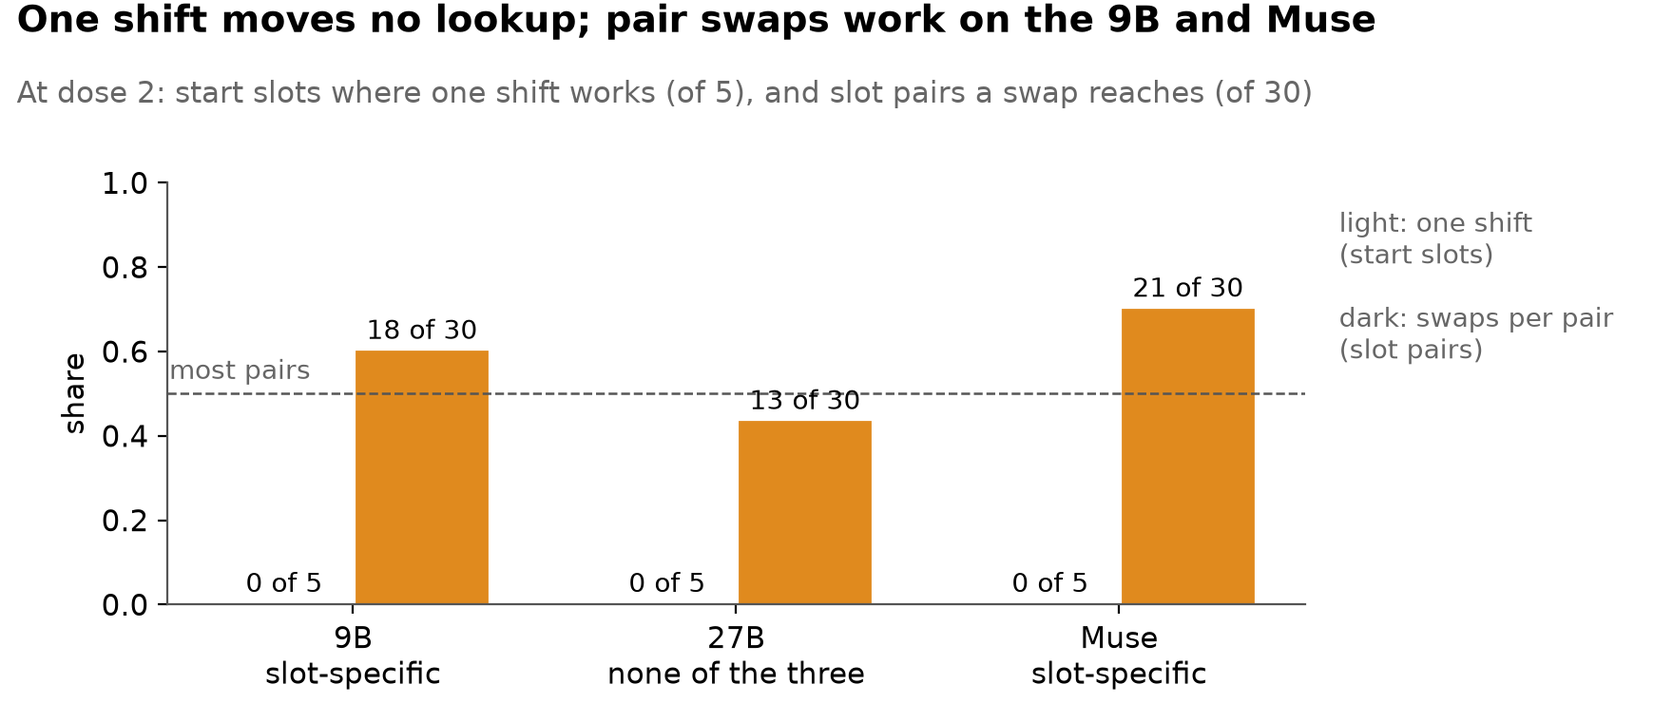
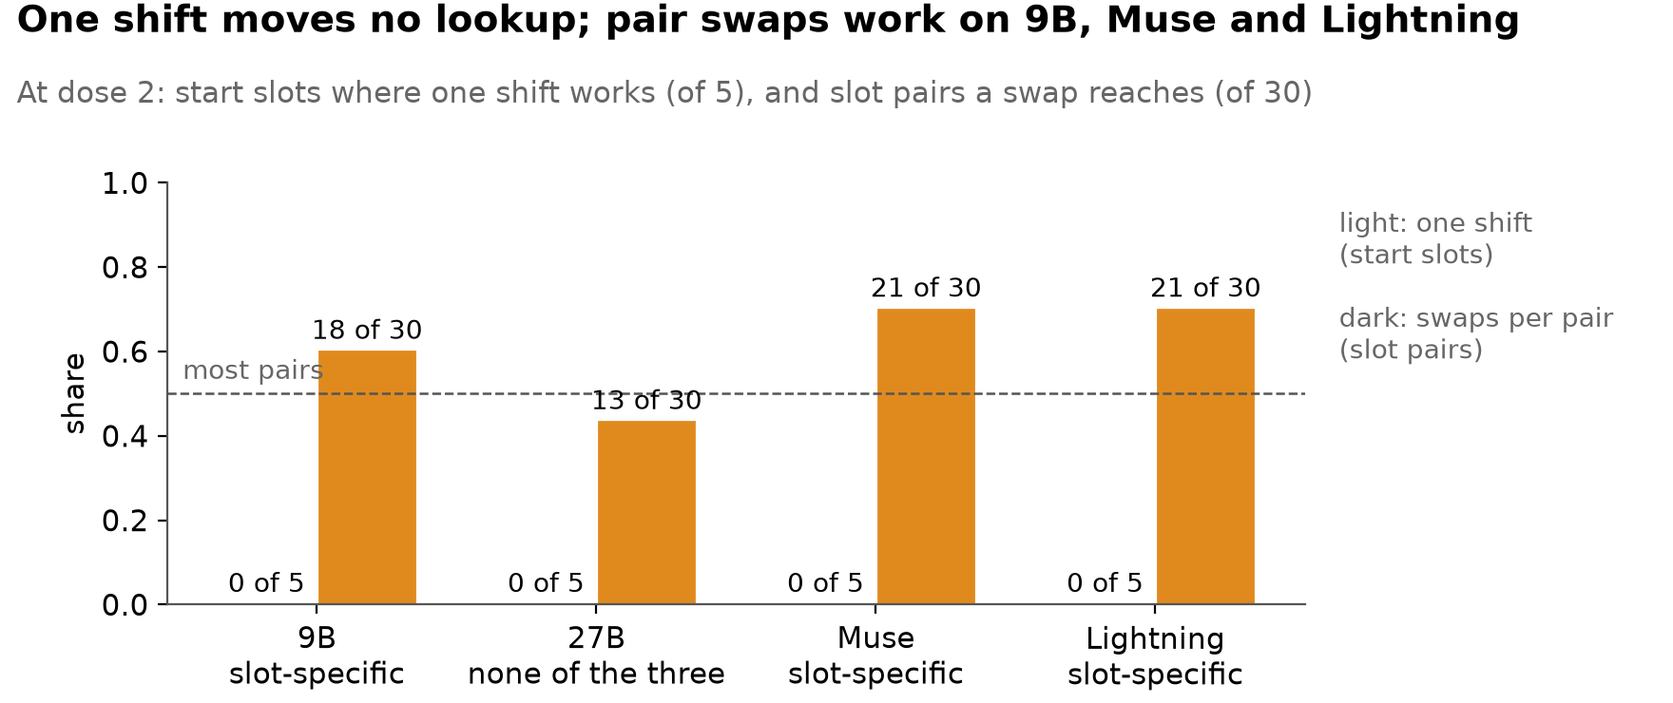
Ledger: Lightning's token map (main design) and six lockers into their cards; flag 18 reworded
- docs/depth/EXPERIMENTS.md:
  - D1 / D2 card, Lightning column (main design, x52_depthmap-20261029T011452Z; coverage run, no prediction):
    D1 (a), (b), (c) no; l_R lookup / recall L28 / L28 (locker first, n 59), L12 / L36 (locker after, n 79);
    D2 not designed (no band, as Muse); the clean design not tested (its gate fails). Caveat and Flagged 19:
    the in-job verdict crashed on a missing LEAD entry; LEAD = 4 added after the run (092f5579); (b)'s answer
    does not depend on it (lead 0)
  - six-locker card, Lightning column (x52_six-20261029T011006Z; coverage run, no prediction): position share
    under the whole change 0.40 [0.33, 0.46]; first component monotone (1.00); 21 of 30 given-slot swaps reach
    0.25 at dose 2: slot-specific
  - Flagged 18 reworded: no tension (51.10 ranks the bridge entity, 52 B the answer word); a reminder that the
    README should name which word is read
  - README changes waiting: E11 adds Lightning; E7 / claim 8 for Lightning; coverage landed-since line
- scripts/ledger_figures.py: six_lockers() draws Lightning (title: pair swaps work on 9B, Muse and Lightning);
  figures/ledger/ledger_six_lockers re-rendered and re-opened; data.csv gains Lightning's rows (none changed)
- 333 sourced numbers, check_ledger 0 problems

Changed region(s): [[0.0938, 0.373, 0.75, 0.9946], [0.5938, 0.0, 0.9062, 0.0622]]

diff --git a/scripts/ledger_figures.py b/scripts/ledger_figures.py
@@ -582,15 +582,17 @@ def routes(plt) -> str:
 
 SIX = {"qwen3.5-9b": R / "x47_six" / "x47_2-20261028T113102Z" / "x47_2.json",
        "qwen3.6-27b": R / "x47_six" / "x52_six-20261029T004919Z" / "x47_2.json",
-       "muse-glimmer-30b": R / "x47_six" / "x47_2-20261028T113102Z" / "x47_2.json"}  # fmt: skip
+       "muse-glimmer-30b": R / "x47_six" / "x47_2-20261028T113102Z" / "x47_2.json",
+       "nemotron-3.5-lightning": R / "x47_six" / "x52_six-20261029T011006Z" / "x47_2.json"}  # fmt: skip
 
 
 def six_lockers(plt) -> str:
-    """Per model (9B, 27B, Muse), at dose 2: the share of start slots from which one fixed shift sends at least 0.25 of
-    lookups one slot on, and the share of given-slot swaps that reach 0.25; the rule's 'most pairs' as a dashed 0.5."""
+    """Per model (9B, 27B, Muse, Lightning), at dose 2: the share of start slots from which one fixed shift sends at
+    least 0.25 of lookups one slot on, and the share of given-slot swaps that reach 0.25; the rule's 'most pairs' as a
+    dashed 0.5."""
     fig, ax = plt.subplots(figsize=(S.WIDTH, 3.7))
     fig.subplots_adjust(left=0.1, right=0.78, top=0.74, bottom=0.14)
-    S.title(fig, "One shift moves no lookup; pair swaps work on the 9B and Muse",
+    S.title(fig, "One shift moves no lookup; pair swaps work on 9B, Muse and Lightning",
             "At dose 2: start slots where one shift works (of 5), and slot pairs a swap reaches (of 30)")  # fmt: skip
     for i, (t, path) in enumerate(SIX.items()):
         m = next(x for x in load(path)["models"] if x["target"] == t)
@@ -608,7 +610,7 @@ def six_lockers(plt) -> str:
     ax.axhline(0.5, color="#555555", lw=0.9, ls="--")
     ax.text(-0.48, 0.52, "most pairs", fontsize=S.LABEL_PT, color=S.COL["muted"], va="bottom")
     labels = [next(x for x in load(p)["models"] if x["target"] == t)["label"] for t, p in SIX.items()]
-    ax.set_xticks(range(3), [f"{SHORT[t]}\n{lab}" for t, lab in zip(SIX, labels, strict=True)])
+    ax.set_xticks(range(len(SIX)), [f"{SHORT[t]}\n{lab}" for t, lab in zip(SIX, labels, strict=True)])
     ax.set_ylim(0, 1.0)
     ax.set_ylabel("share")
     ax.text(1.03, 0.75, "light: one shift\n(start slots)\n\ndark: swaps per pair\n(slot pairs)", transform=ax.transAxes,

diff --git a/docs/depth/EXPERIMENTS.md b/docs/depth/EXPERIMENTS.md
@@ -23,7 +23,8 @@ Each card's figure follows its rule; the checks made on every figure are listed 
 15. The coverage matrix's row 4 (address swap by dose) gives the 9B 0.05 / 0.52 / 0.52 and Muse 0.02 / 0.46 / 0.73; the verdicts say the reverse (9B 0.02 / 0.46 / 0.73, Muse 0.05 / 0.52 / 0.52). The coverage table mirrors the matrix and carries the swap; the address-swap card follows the verdicts.
 16. README E6 says the swap hypothesis was fixed in advance; the rule fixed in advance (Q44.1-3, s = 1) says no on the 9B, 27B and Muse, and E6's 0.46 / 0.25 / 0.52 are at s = 2 (mean over slot pairs). The s = 1 failure is known (joint_story_draft: a design error), but E6 does not say it ([address swap](#swap)).
 17. Fixed (0866f22b, on danorel): scripts/x0_details.py (tier0_numbers) read the newest split-by-order folder; Lightning's one-model split is now the newest, so a rerun of it would break the same way the figure reader did (fixed in readme_story_figures by order_split_path(); x0_details not touched).
-18. The recall at the last token is "readable" in 51.10 (Lightning from L36, and on all three models) but "not readable" in 52 B (Lightning: best last-token share 0.41 at L46, under 0.5). Coordinator's guess: the answer's token form (digit vs number word). The verdicts' own "As computed" lines suggest a different cause: 51.10's lens top-5 ranks the bridge entity among the letter tokens, 52 B's ranks the answer word (the number word's one-letter-token variants); both can hold at once. Verify by hand before either word goes into the README ([51.10](#t51-10), [52 B](#b52-b)).
+18. Reminder, no tension: the recall at the last token is "readable" in 51.10 and "not readable" in 52 B because they read different words: 51.10 ranks the bridge entity among the letter tokens, 52 B the answer word (the number word's one-letter-token variants). Wherever the README says "readable", it should name which word is read ([51.10](#t51-10), [52 B](#b52-b)).
+19. Token map on Lightning: the run's in-job verdict crashed (KeyError) because x47_depthmap.LEAD, the margin of D1 rule (b), had no Lightning entry. The coordinator added LEAD = 4 (as Muse, one sampling step) after the run and ran the verdict on CPU (092f5579). The margin was set after the data, but (b)'s answer does not depend on it: Lightning's lead is 0 ([token map](#d1)).
 
 ## README changes waiting for Dan
 
@@ -38,14 +39,15 @@ Overnight rule (Dan 01:10): no README edits until Dan returns. One line each:
 - Claim 1, models: the conflict test is confirmed on Lightning at L14 (coverage run, no prediction; gate chosen after the 60-scene pre-check was seen) ([Lightning's conflict test](#lightning-conflict)).
 - E6: say the rule fixed in advance was at s = 1 and said no (below a real change's size); the swap numbers are at s = 2; Lightning moves 0.50 at s = 2 (coverage run, no prediction) ([address swap](#swap)).
 - E10 and claim 10, models: Lightning splits the same way (locker first 0.86 of lookups switch, after 0.15; descriptive, coverage run) ([order split](#order)).
-- E11: "Not shown: the 27B" is out of date: the 27B's map fails D1 (a), (b), (c) on both designs and passes D2 (the recall's read-out layer L52 at the start of Zach's late band), as the 9B ([token map](#d1)).
+- E11: "Not shown: the 27B" is out of date: the 27B's map fails D1 (a), (b), (c) on both designs and passes D2 (the recall's read-out layer L52 at the start of Zach's late band), as the 9B; Lightning's main-design map fails D1 too ([token map](#d1)).
+- E7 and claim 8, models: Lightning is slot-specific at dose 2, as the 9B and Muse (coverage run, no prediction) ([six lockers](#six)).
 - E8, E12 and the 51.10 card, models: Lightning reads the same (lens readout not verbalizable; anatomy (a), (b), (d) yes, (c) no; recall at the last token readable, not used); coverage runs, no prediction ([47.0](#t47-0), [47.8](#t47-8), [51.10](#t51-10)).
 
 ## Coverage
 
 Which test ran on which model, from the committed coverage matrix (results/x52_coverage/matrix-20261029T000836Z/matrix.json, built 00:08 UTC 29 Oct; each cell's source is in that file). A linked test has a card below. Status words are the matrix's: done / partial / running / queued / missing / not tested (reason) / not designed. Lightning's gate (all cells): the main test's gate on all 516 scenes, ○ chosen after the 60-scene pre-check was seen; layer L14 (see [Lightning's layer](#lightning-layer)). Nemotron 3.5 Bolt: out of scope, only a J-lens exists, no J++ lens.
 
-As of the matrix at 00:08 UTC. Landed since (see the cards): on Lightning the conflict test, answer control, routes test, address swap, order split, anatomy by layer, lens readout, last-token read, 52 A and 52 B (main set); on the 27B six lockers and the token map. Not in a card: Lightning on natural passages is **not tested**: the gate failed (the lookup right on 0.77<!-- src: results/x5_natural/nem35l_x52_natural/gate.json \| "PP" :: 0.77 --> of the 87<!-- src: results/x5_natural/nem35l_x52_natural/gate.json \| "cases" :: 87 --> cases, under 0.80; 36<!-- src: results/x5_natural/nem35l_x52_natural/gate.json \| "eligible" :: 36 --> eligible), and by the spec's rule there is no lowered rerun.
+As of the matrix at 00:08 UTC. Landed since (see the cards): on Lightning the conflict test, answer control, routes test, address swap, order split, anatomy by layer, lens readout, last-token read, 52 A and 52 B (main set); on the 27B six lockers and the token map; on Lightning also six lockers and the token map (main design). Not in a card: Lightning on natural passages is **not tested**: the gate failed (the lookup right on 0.77<!-- src: results/x5_natural/nem35l_x52_natural/gate.json \| "PP" :: 0.77 --> of the 87<!-- src: results/x5_natural/nem35l_x52_natural/gate.json \| "cases" :: 87 --> cases, under 0.80; 36<!-- src: results/x5_natural/nem35l_x52_natural/gate.json \| "eligible" :: 36 --> eligible), and by the spec's rule there is no lowered rerun.
 
 <!-- coverage:start (scripts/ledger_coverage.py; do not edit by hand) -->
 | test | 27B | Lightning | 9B | Muse |
@@ -449,30 +451,30 @@ As of the matrix at 00:08 UTC. Landed since (see the cards): on Lightning the co
   - The swap also changes the recall's answer, most on the 9B and Lightning (the collateral).
   - Pooled over pairs: some pairs move no lookup at all (Lightning: two of six at dose 2).
 
-### With six lockers, does each locker have its own code? (six lockers; the 27B's coverage run opened 29 Oct 01:49) <a id="six"></a>
+### With six lockers, does each locker have its own code? (six lockers; the 27B's coverage run opened 29 Oct 01:49, Lightning's 29 Oct) <a id="six"></a>
 
-*Used in: README Part III card "Six lockers" and claims table row 8 (9B, Muse); the 27B not in the README yet. Story: the address.*
+*Used in: README Part III card "Six lockers" and claims table row 8 (9B, Muse); the 27B and Lightning not in the README yet. Story: the address.*
 
 - **Question.** With six locker sentences, is the address a line over slots (one shift steps the lookup one slot), a first-versus-rest marker, or one code per slot?
 - **Why we asked.** With three lockers a line and a first-versus-rest marker look the same.
-- **Data.** Six-locker scenes: the test half, 300 per model (9B, 27B, Muse), the other 300 fit the slot means.
+- **Data.** Six-locker scenes: the test half, 300 per model (9B, 27B, Muse, Lightning at L14), the other 300 fit the slot means.
 - **Method.** At the bridge word at L: one fixed shift (the mean step between neighbouring slot means) from each start slot, and swaps between given slots, each at doses 1 and 2, against a random vector of the same size; the slot means' first principal component beside.
-- **Rule, fixed in advance.** "Ordinal: the first PCA component is monotone in slot (|Spearman| >= 0.9) and v sends >= 0.25 of lookups to slot k+1 from >= 4 of 5 start slots, the random vector <= 0.05; Categorical, first vs rest: v works only from slot 1 (others < 0.10) and U's removal on 2-6 moves is within 0.10 of random; Slot-specific: pairwise writes reach >= 0.25 on most pairs but no single v does." Dose 2 decides.
+- **Rule, fixed in advance.** "Ordinal: the first PCA component is monotone in slot (|Spearman| >= 0.9) and v sends >= 0.25 of lookups to slot k+1 from >= 4 of 5 start slots, the random vector <= 0.05; Categorical, first vs rest: v works only from slot 1 (others < 0.10) and U's removal on 2-6 moves is within 0.10 of random; Slot-specific: pairwise writes reach >= 0.25 on most pairs but no single v does." Dose 2 decides. The 27B and Lightning: coverage runs on this rule, no prediction.
 
-![One shift moves no lookup; pair swaps work on the 9B and Muse](../../figures/ledger/ledger_six_lockers.png)
-*At dose 2, per model: start slots from which one shift sends at least 0.25 of lookups one slot on (light, of 5; none anywhere), and slot pairs a given-slot swap reaches (dark, of 30); dashed: "most pairs"; the rule's label under each model. 300 test scenes per model.*
+![One shift moves no lookup; pair swaps work on 9B, Muse and Lightning](../../figures/ledger/ledger_six_lockers.png)
+*At dose 2, per model: start slots from which one shift sends at least 0.25 of lookups one slot on (light, of 5; none anywhere), and slot pairs a given-slot swap reaches (dark, of 30); dashed: "most pairs"; the rule's label under each model. 300 test scenes per model; 9B, 27B, Muse, Lightning.*
 
 - **Result.**
 
   | | 9B | 27B | Muse | Lightning |
   |---|---|---|---|---|
-  | position share under the whole change | 0.32 [0.28, 0.37]<!-- src: results/x47_six/x47_2-20261028T113102Z/x47_2.md \| qwen35_9b_x47_2 :: 0.32 [0.28, 0.37] --> | 0.25 [0.19, 0.31]<!-- src: results/x47_six/x52_six-20261029T004919Z/x47_2.md \| 0.70 [0.64, 0.76] :: 0.25 [0.19, 0.31] --> | 0.37 [0.31, 0.43]<!-- src: results/x47_six/x47_2-20261028T113102Z/x47_2.md \| muse30_x47_2 :: 0.37 [0.31, 0.43] --> | not run |
-  | first component monotone in slot (Spearman) | 1.00<!-- src: results/x47_six/x47_2-20261028T113102Z/x47_2.md \| 8.15, 5.59, 3.08 :: 1.00 --> | 1.00<!-- src: results/x47_six/x52_six-20261029T004919Z/x47_2.md \| 26.79, 16.42, 11.83 :: 1.00 --> | 1.00<!-- src: results/x47_six/x47_2-20261028T113102Z/x47_2.md \| 84.27, 58.15, 38.31 :: 1.00 --> | |
-  | given-slot swaps reaching 0.25 at dose 2 | 18 of 30<!-- src: results/x47_six/x47_2-20261028T113102Z/x47_2.md \| -0.025 :: 18 of 30 --> | 13 of 30<!-- src: results/x47_six/x52_six-20261029T004919Z/x47_2.md \| 0.004 :: 13 of 30 --> | 21 of 30<!-- src: results/x47_six/x47_2-20261028T113102Z/x47_2.md \| -0.055 :: 21 of 30 --> | |
-  | the rule at dose 2 | **slot-specific** | **none of the three** | **slot-specific** | |
+  | position share under the whole change | 0.32 [0.28, 0.37]<!-- src: results/x47_six/x47_2-20261028T113102Z/x47_2.md \| qwen35_9b_x47_2 :: 0.32 [0.28, 0.37] --> | 0.25 [0.19, 0.31]<!-- src: results/x47_six/x52_six-20261029T004919Z/x47_2.md \| 0.70 [0.64, 0.76] :: 0.25 [0.19, 0.31] --> | 0.37 [0.31, 0.43]<!-- src: results/x47_six/x47_2-20261028T113102Z/x47_2.md \| muse30_x47_2 :: 0.37 [0.31, 0.43] --> | 0.40 [0.33, 0.46]<!-- src: results/x47_six/x52_six-20261029T011006Z/x47_2.md \| nem35l_x52_six :: whole :: 0.40 [0.33, 0.46] --> |
+  | first component monotone in slot (Spearman) | 1.00<!-- src: results/x47_six/x47_2-20261028T113102Z/x47_2.md \| 8.15, 5.59, 3.08 :: 1.00 --> | 1.00<!-- src: results/x47_six/x52_six-20261029T004919Z/x47_2.md \| 26.79, 16.42, 11.83 :: 1.00 --> | 1.00<!-- src: results/x47_six/x47_2-20261028T113102Z/x47_2.md \| 84.27, 58.15, 38.31 :: 1.00 --> | 1.00<!-- src: results/x47_six/x52_six-20261029T011006Z/x47_2.md \| 6.40, 4.93, 2.50 :: 1.00 --> |
+  | given-slot swaps reaching 0.25 at dose 2 | 18 of 30<!-- src: results/x47_six/x47_2-20261028T113102Z/x47_2.md \| -0.025 :: 18 of 30 --> | 13 of 30<!-- src: results/x47_six/x52_six-20261029T004919Z/x47_2.md \| 0.004 :: 13 of 30 --> | 21 of 30<!-- src: results/x47_six/x47_2-20261028T113102Z/x47_2.md \| -0.055 :: 21 of 30 --> | 21 of 30<!-- src: results/x47_six/x52_six-20261029T011006Z/x47_2.md \| -0.020 :: 21 of 30 --> |
+  | the rule at dose 2 | **slot-specific** | **none of the three** | **slot-specific** | **slot-specific** (no prediction) |
 
 - **Read.**
-  - No single shift moves the lookup on any model; given-slot swaps work on most pairs on the 9B and Muse, so each slot is its own target there; on the 27B neither the line nor the per-slot pattern holds.
+  - No single shift moves the lookup on any model; given-slot swaps work on most pairs on the 9B, Muse and Lightning, so each slot is its own target there; on the 27B neither the line nor the per-slot pattern holds.
 - **Caveats.**
   - The 27B's shift writes move 0.00 at every start slot, though its slot means lie in order.
   - A different test of the code's size (see [51.11](#t51-11)) does not find one dimension per slot on the 9B.
@@ -539,36 +541,36 @@ As of the matrix at 00:08 UTC. Landed since (see the cards): on Lightning the co
   - Locker after, the whole change switches 0.09 to 0.19 of 99 to 115 lookups, under the 30 switches a cell needs; the lookup's loss there is not usable (the split's own note: measurable only where switches are many).
   - Descriptive: the split was chosen after the data.
 
-### Which token and layer carry each reader's switch, and when does the bridge word stop being read? (token-by-layer map and window patching, D1 / D2; the 27B's coverage run 29 Oct) <a id="d1"></a>
+### Which token and layer carry each reader's switch, and when does the bridge word stop being read? (token-by-layer map and window patching, D1 / D2; the 27B's and Lightning's coverage runs 29 Oct) <a id="d1"></a>
 
-*Used in: README Part IV card "Token by token, layer by layer" (9B, Muse); the 27B not in the README yet. Story: where and when.*
+*Used in: README Part IV card "Token by token, layer by layer" (9B, Muse); the 27B and Lightning not in the README yet. Story: where and when.*
 
 - **Question.** With the changed prompt's state placed in one token group at one layer, which cell switches each reader, and after which layer does nothing downstream read the bridge word?
 - **Why we asked.** With the locker sentence after the pick the bridge word cannot point back; the map says where the link sits instead.
-- **Data.** Clean one-pick scenes (the main test beside them), split by sentence order: locker first 151 / 202 / 143, locker after 166 / 236 / 170 (9B / 27B / Muse). Lightning not tested: the clean one-pick design's gate fails on it.
+- **Data.** Clean one-pick scenes (the main test beside them), split by sentence order: locker first 151 / 202 / 143, locker after 166 / 236 / 170 (9B / 27B / Muse). Lightning: the main test only, locker first 59<!-- src: results/x47_depthmap/x52_depthmap-20261029T011452Z/depth.md \| nemotron-3.5-lightning :: main :: locker-first :: 59 -->, locker after 79<!-- src: results/x47_depthmap/x52_depthmap-20261029T011452Z/depth.md \| nemotron-3.5-lightning :: main :: locker-after :: 79 -->; its clean design is not tested (the clean one-pick gate fails on it).
 - **Method.** D1: the changed state placed at one token group (the bridge word, the rest of the pick sentence, the asked person, each locker sentence's item and number, the question, the last token) at one layer, every 2nd (9B) or 4th (27B, Muse). D2: the changed state at the bridge word at every layer from l on; the read-out layer l_R is the first where this switches 0.1 or fewer.
-- **Rule, fixed in advance.** D1: "(a) In locker-after scenes the lookup's mass sits at the locker sentences, not at the bridge word, at every layer (bridge-word cells <= 0.25 everywhere; some locker-sentence cell >= 0.5). (b) In locker-first scenes the lookup's bridge-word mass ends before the recall's does (the last layer with bridge-word switch >= 0.3 is earlier for the lookup, by >= 2 layers on the 9B, >= 4 on Muse). (c) The recall's map has a second hot token, the item's earlier mention, in locker-first scenes (>= 0.3 at some layer), absent in locker-after." D2: ""The handover from the mention to the question" if l_R(recall) lies at or below the start of his late band on the 9B and 27B." The 27B: a coverage run on these rules, no prediction.
+- **Rule, fixed in advance.** D1: "(a) In locker-after scenes the lookup's mass sits at the locker sentences, not at the bridge word, at every layer (bridge-word cells <= 0.25 everywhere; some locker-sentence cell >= 0.5). (b) In locker-first scenes the lookup's bridge-word mass ends before the recall's does (the last layer with bridge-word switch >= 0.3 is earlier for the lookup, by >= 2 layers on the 9B, >= 4 on Muse). (c) The recall's map has a second hot token, the item's earlier mention, in locker-first scenes (>= 0.3 at some layer), absent in locker-after." D2: ""The handover from the mention to the question" if l_R(recall) lies at or below the start of his late band on the 9B and 27B." The 27B and Lightning: coverage runs on these rules, no prediction.
 
 ![Locker after the pick: the lookup leaves the bridge word early](../../figures/story/fig03d_depth_map.png)
 *The 9B, clean one-pick scenes: lookups (upper row, purple) and recalls (lower row, grey) switched when the changed state is placed in one token group at one layer, locker before and after the pick; bottom: the bridge word replaced at every layer up to l, and from l on. The 27B's and Muse's maps are tables in their verdicts.*
 
-- **Result.** (clean design; the main test gives the same D1 and D2 answers on all three)
+- **Result.** (clean design; the main test gives the same D1 and D2 answers on the 9B, 27B and Muse; Lightning: the main test)
 
-  | | 9B | 27B | Muse |
-  |---|---|---|---|
-  | D1 (a) locker after: a locker-sentence cell carries the lookup | no<!-- src: results/x47_depthmap/depth-20261028T120525Z/depth.md \| qwen3.5-9b :: clean :: glk_org_num@18 :: no --> | no<!-- src: results/x47_depthmap/x52_depthmap-20261029T010426Z/depth.md \| qwen3.6-27b :: clean :: glk_cf_item@28 :: no --> | no<!-- src: results/x47_depthmap/depth-20261028T120525Z/depth.md \| muse-glimmer-30b :: clean :: glk_cf_item@16 :: no --> |
-  | D1 (b) locker first: the lookup leaves the bridge word first | no<!-- src: results/x47_depthmap/depth-20261028T120525Z/depth.md \| qwen3.5-9b :: clean :: lead -2 of 2 :: no --> | no<!-- src: results/x47_depthmap/x52_depthmap-20261029T010426Z/depth.md \| qwen3.6-27b :: clean :: lead -4 of 4 :: no --> | no<!-- src: results/x47_depthmap/depth-20261028T120525Z/depth.md \| muse-glimmer-30b :: clean :: lead 0 of 4 :: no --> |
-  | D1 (c) the recall's second hot token, locker first only | no<!-- src: results/x47_depthmap/depth-20261028T120525Z/depth.md \| qwen3.5-9b :: clean :: peaks first :: no --> | no<!-- src: results/x47_depthmap/x52_depthmap-20261029T010426Z/depth.md \| qwen3.6-27b :: clean :: peaks first :: no --> | no<!-- src: results/x47_depthmap/depth-20261028T120525Z/depth.md \| muse-glimmer-30b :: clean :: peaks first :: no --> |
-  | read-out layer l_R, lookup / recall, locker first | L18<!-- src: results/x47_depthmap/depth-20261028T120525Z/depth.md \| qwen3.5-9b :: clean :: locker-first :: 151 :: 18 --> / L20<!-- src: results/x47_depthmap/depth-20261028T120525Z/depth.md \| qwen3.5-9b :: clean :: locker-first :: 151 :: 20 --> | L44<!-- src: results/x47_depthmap/x52_depthmap-20261029T010426Z/depth.md \| qwen3.6-27b :: clean :: locker-first :: 202 :: 44 --> / L40<!-- src: results/x47_depthmap/x52_depthmap-20261029T010426Z/depth.md \| qwen3.6-27b :: clean :: locker-first :: 202 :: 40 --> | L32<!-- src: results/x47_depthmap/depth-20261028T120525Z/depth.md \| muse-glimmer-30b :: clean :: locker-first :: 143 :: 32 --> / L32<!-- src: results/x47_depthmap/depth-20261028T120525Z/depth.md \| muse-glimmer-30b :: clean :: locker-first :: 143 :: 32 --> |
-  | read-out layer l_R, lookup / recall, locker after | L12<!-- src: results/x47_depthmap/depth-20261028T120525Z/depth.md \| qwen3.5-9b :: clean :: locker-after :: 166 :: 12 --> / L24<!-- src: results/x47_depthmap/depth-20261028T120525Z/depth.md \| qwen3.5-9b :: clean :: locker-after :: 166 :: 24 --> | L28<!-- src: results/x47_depthmap/x52_depthmap-20261029T010426Z/depth.md \| qwen3.6-27b :: clean :: locker-after :: 236 :: 28 --> / L52<!-- src: results/x47_depthmap/x52_depthmap-20261029T010426Z/depth.md \| qwen3.6-27b :: clean :: locker-after :: 236 :: 52 --> | L16<!-- src: results/x47_depthmap/depth-20261028T120525Z/depth.md \| muse-glimmer-30b :: clean :: locker-after :: 170 :: 16 --> / L36<!-- src: results/x47_depthmap/depth-20261028T120525Z/depth.md \| muse-glimmer-30b :: clean :: locker-after :: 170 :: 36 --> |
-  | D2: the recall's read-out layer at or below the start of Zach's late band | yes<!-- src: results/x47_depthmap/depth-20261028T120525Z/depth.md \| qwen3.5-9b :: clean :: l_R recall 24, band 26 :: yes --> (band from L26) | yes<!-- src: results/x47_depthmap/x52_depthmap-20261029T010426Z/depth.md \| qwen3.6-27b :: clean :: l_R recall 52, band 52 :: yes --> (band from L52) | not designed: band None<!-- src: results/x47_depthmap/depth-20261028T120525Z/depth.md \| muse-glimmer-30b :: clean :: band None --> |
+  | | 9B | 27B | Muse | Lightning (main) |
+  |---|---|---|---|---|
+  | D1 (a) locker after: a locker-sentence cell carries the lookup | no<!-- src: results/x47_depthmap/depth-20261028T120525Z/depth.md \| qwen3.5-9b :: clean :: glk_org_num@18 :: no --> | no<!-- src: results/x47_depthmap/x52_depthmap-20261029T010426Z/depth.md \| qwen3.6-27b :: clean :: glk_cf_item@28 :: no --> | no<!-- src: results/x47_depthmap/depth-20261028T120525Z/depth.md \| muse-glimmer-30b :: clean :: glk_cf_item@16 :: no --> | no<!-- src: results/x47_depthmap/x52_depthmap-20261029T011452Z/depth.md \| nemotron-3.5-lightning :: main :: glk_cf_item@12 :: no --> |
+  | D1 (b) locker first: the lookup leaves the bridge word first | no<!-- src: results/x47_depthmap/depth-20261028T120525Z/depth.md \| qwen3.5-9b :: clean :: lead -2 of 2 :: no --> | no<!-- src: results/x47_depthmap/x52_depthmap-20261029T010426Z/depth.md \| qwen3.6-27b :: clean :: lead -4 of 4 :: no --> | no<!-- src: results/x47_depthmap/depth-20261028T120525Z/depth.md \| muse-glimmer-30b :: clean :: lead 0 of 4 :: no --> | no<!-- src: results/x47_depthmap/x52_depthmap-20261029T011452Z/depth.md \| nemotron-3.5-lightning :: main :: lead 0 of 4 :: no --> |
+  | D1 (c) the recall's second hot token, locker first only | no<!-- src: results/x47_depthmap/depth-20261028T120525Z/depth.md \| qwen3.5-9b :: clean :: peaks first :: no --> | no<!-- src: results/x47_depthmap/x52_depthmap-20261029T010426Z/depth.md \| qwen3.6-27b :: clean :: peaks first :: no --> | no<!-- src: results/x47_depthmap/depth-20261028T120525Z/depth.md \| muse-glimmer-30b :: clean :: peaks first :: no --> | no<!-- src: results/x47_depthmap/x52_depthmap-20261029T011452Z/depth.md \| nemotron-3.5-lightning :: main :: peaks first 0.0169 :: no --> |
+  | read-out layer l_R, lookup / recall, locker first | L18<!-- src: results/x47_depthmap/depth-20261028T120525Z/depth.md \| qwen3.5-9b :: clean :: locker-first :: 151 :: 18 --> / L20<!-- src: results/x47_depthmap/depth-20261028T120525Z/depth.md \| qwen3.5-9b :: clean :: locker-first :: 151 :: 20 --> | L44<!-- src: results/x47_depthmap/x52_depthmap-20261029T010426Z/depth.md \| qwen3.6-27b :: clean :: locker-first :: 202 :: 44 --> / L40<!-- src: results/x47_depthmap/x52_depthmap-20261029T010426Z/depth.md \| qwen3.6-27b :: clean :: locker-first :: 202 :: 40 --> | L32<!-- src: results/x47_depthmap/depth-20261028T120525Z/depth.md \| muse-glimmer-30b :: clean :: locker-first :: 143 :: 32 --> / L32<!-- src: results/x47_depthmap/depth-20261028T120525Z/depth.md \| muse-glimmer-30b :: clean :: locker-first :: 143 :: 32 --> | L28<!-- src: results/x47_depthmap/x52_depthmap-20261029T011452Z/depth.md \| nemotron-3.5-lightning :: main :: locker-first :: 59 :: 28 --> / L28<!-- src: results/x47_depthmap/x52_depthmap-20261029T011452Z/depth.md \| nemotron-3.5-lightning :: main :: locker-first :: 59 :: 28 --> |
+  | read-out layer l_R, lookup / recall, locker after | L12<!-- src: results/x47_depthmap/depth-20261028T120525Z/depth.md \| qwen3.5-9b :: clean :: locker-after :: 166 :: 12 --> / L24<!-- src: results/x47_depthmap/depth-20261028T120525Z/depth.md \| qwen3.5-9b :: clean :: locker-after :: 166 :: 24 --> | L28<!-- src: results/x47_depthmap/x52_depthmap-20261029T010426Z/depth.md \| qwen3.6-27b :: clean :: locker-after :: 236 :: 28 --> / L52<!-- src: results/x47_depthmap/x52_depthmap-20261029T010426Z/depth.md \| qwen3.6-27b :: clean :: locker-after :: 236 :: 52 --> | L16<!-- src: results/x47_depthmap/depth-20261028T120525Z/depth.md \| muse-glimmer-30b :: clean :: locker-after :: 170 :: 16 --> / L36<!-- src: results/x47_depthmap/depth-20261028T120525Z/depth.md \| muse-glimmer-30b :: clean :: locker-after :: 170 :: 36 --> | L12<!-- src: results/x47_depthmap/x52_depthmap-20261029T011452Z/depth.md \| nemotron-3.5-lightning :: main :: locker-after :: 79 :: 12 --> / L36<!-- src: results/x47_depthmap/x52_depthmap-20261029T011452Z/depth.md \| nemotron-3.5-lightning :: main :: locker-after :: 79 :: 36 --> |
+  | D2: the recall's read-out layer at or below the start of Zach's late band | yes<!-- src: results/x47_depthmap/depth-20261028T120525Z/depth.md \| qwen3.5-9b :: clean :: l_R recall 24, band 26 :: yes --> (band from L26) | yes<!-- src: results/x47_depthmap/x52_depthmap-20261029T010426Z/depth.md \| qwen3.6-27b :: clean :: l_R recall 52, band 52 :: yes --> (band from L52) | not designed: band None<!-- src: results/x47_depthmap/depth-20261028T120525Z/depth.md \| muse-glimmer-30b :: clean :: band None --> | not designed: band None<!-- src: results/x47_depthmap/x52_depthmap-20261029T011452Z/depth.md \| nemotron-3.5-lightning :: main :: l_R recall 36, band None :: band None --> |
 
 - **Read.**
-  - On the 27B as on the 9B and Muse, all three D1 readings fail on both designs: no locker-sentence cell carries the locker-after lookup, the lookup does not leave the bridge word before the recall by the margin fixed in advance, and the recall has no second hot token.
-  - With the locker after the pick, the lookup stops reading the bridge word far earlier than the recall on all three; the 27B's recall reads it up to the start of Zach's late band, as on the 9B.
+  - On the 27B as on the 9B and Muse, all three D1 readings fail on both designs (Lightning: on the main test): no locker-sentence cell carries the locker-after lookup, the lookup does not leave the bridge word before the recall by the margin fixed in advance, and the recall has no second hot token.
+  - With the locker after the pick, the lookup stops reading the bridge word far earlier than the recall on all four; the 27B's recall reads it up to the start of Zach's late band, as on the 9B.
 - **Caveats.**
-  - The 27B and Muse were sampled every 4th layer, so their read-out layers are known to 4 layers.
-  - Muse has no late band of Zach's, so D2 is scored on the 9B and 27B only.
+  - The 27B, Muse and Lightning were sampled every 4th layer, so their read-out layers are known to 4 layers; Lightning's in-job verdict crashed on a missing margin for rule (b), added after the run (Flagged 19).
+  - Muse and Lightning have no late band of Zach's, so D2 is scored on the 9B and 27B only.
 
 ### Does the lookup drop the lens part before it takes up the address? (anatomy by layer, 47.8; Lightning's coverage run 29 Oct) <a id="t47-8"></a>
 
@@ -859,7 +861,7 @@ Every PNG was opened after rendering (29 Oct ~02:00) and checked for: readable a
 | figures/ledger/ledger_clean_reruns.png | yes | no overlap | yes | yes | |
 | figures/ledger/ledger_answer_map.png | yes | no overlap (after a wider left margin) | yes | yes | the per-layer maps stay in the verdict folder, linked from the caption |
 | figures/ledger/ledger_routes.png | yes | no overlap | yes | yes | four models; the value never appears, so its colour shows only in the key |
-| figures/ledger/ledger_six_lockers.png | yes | no overlap (after moving two labels) | yes | yes | the one-shift bars are zero on every model |
+| figures/ledger/ledger_six_lockers.png | yes | no overlap (after moving two labels) | yes | yes | the one-shift bars are zero on every model; Lightning added 29 Oct, re-opened |
 | figures/ledger/ledger_described.png | yes | no overlap | yes | yes | restyled from the verdict's figure (which kept the test id); our gap drawn only where the lookup switches enough |
 | figures/ledger/ledger_address_swap.png | yes | no overlap | yes | yes | all 600 swaps pooled per dose; the random vector's dashed line sits at 0.00 to 0.01 |
 | figures/ledger/ledger_order_split.png | yes | no overlap | yes | yes | only the lookup's switch share is drawn; the extra losses stay in the card's table (locker after: under 30 switches) |
